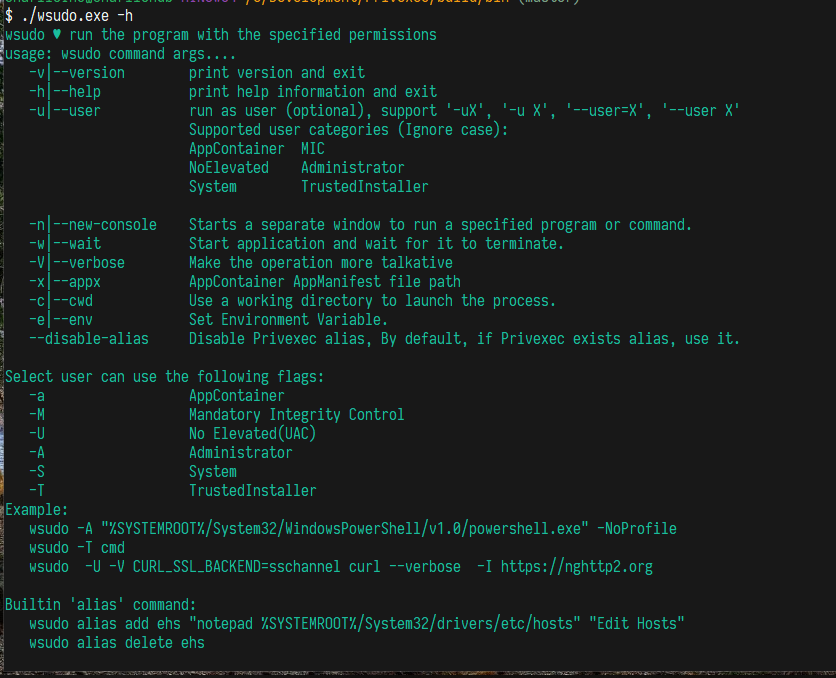
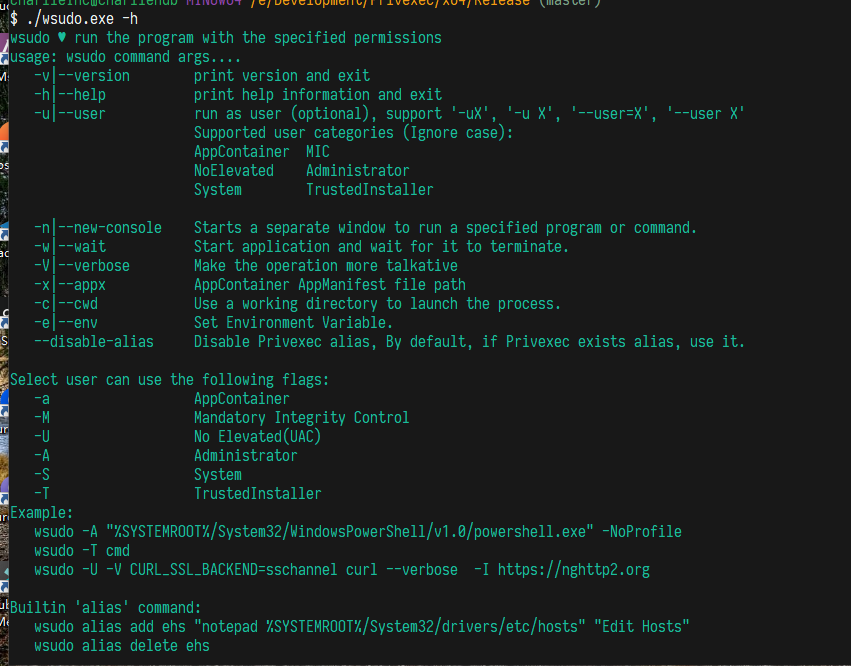
Update readme about wsudo

Changed region(s): [[0.0, 0.0, 1.0, 1.0], [0.6842, 0.1502, 0.8708, 0.1802]]

diff --git a/wsudo/wsudo.cc b/wsudo/wsudo.cc
@@ -244,7 +244,7 @@ Select user can use the following flags:
 Example:
    wsudo -A "%SYSTEMROOT%/System32/WindowsPowerShell/v1.0/powershell.exe" -NoProfile
    wsudo -T cmd
-   wsudo  -U -V CURL_SSL_BACKEND=sschannel curl --verbose  -I https://nghttp2.org
+   wsudo -U -V CURL_SSL_BACKEND=sschannel curl --verbose  -I https://nghttp2.org
 
 Builtin 'alias' command:
    wsudo alias add ehs "notepad %SYSTEMROOT%/System32/drivers/etc/hosts" "Edit Hosts"

diff --git a/ReadMe.md b/ReadMe.md
@@ -88,23 +88,24 @@ usage: wsudo command args....
    -V|--verbose        Make the operation more talkative
    -x|--appx           AppContainer AppManifest file path
    -c|--cwd            Use a working directory to launch the process.
+   -e|--env            Set Environment Variable.
    --disable-alias     Disable Privexec alias, By default, if Privexec exists alias, use it.
 
 Select user can use the following flags:
-   -a          AppContainer
-   -M          Mandatory Integrity Control
-   -U          No Elevated(UAC)
-   -A          Administrator
-   -S          System
-   -T          TrustedInstaller
+   -a                  AppContainer
+   -M                  Mandatory Integrity Control
+   -U                  No Elevated(UAC)
+   -A                  Administrator
+   -S                  System
+   -T                  TrustedInstaller
 Example:
    wsudo -A "%SYSTEMROOT%/System32/WindowsPowerShell/v1.0/powershell.exe" -NoProfile
    wsudo -T cmd
+   wsudo -U -V CURL_SSL_BACKEND=sschannel curl --verbose  -I https://nghttp2.org
 
 Builtin 'alias' command:
    wsudo alias add ehs "notepad %SYSTEMROOT%/System32/drivers/etc/hosts" "Edit Hosts"
    wsudo alias delete ehs
-
 
 ```
 
